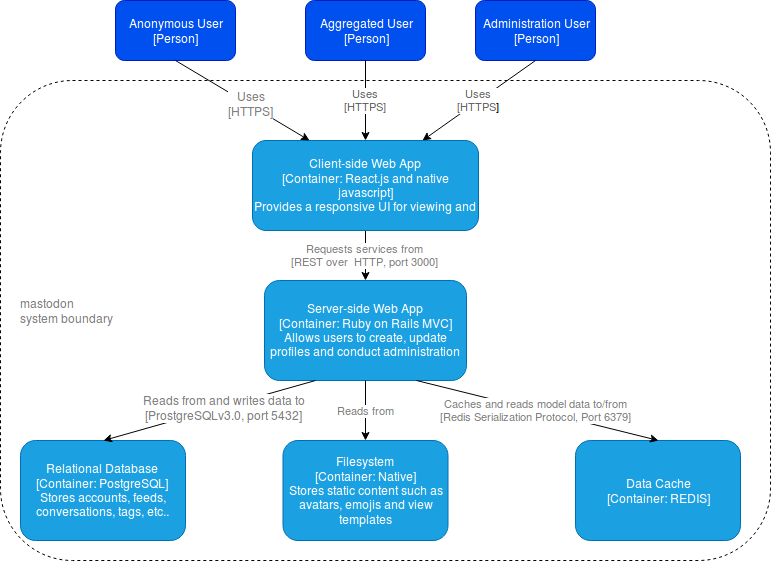
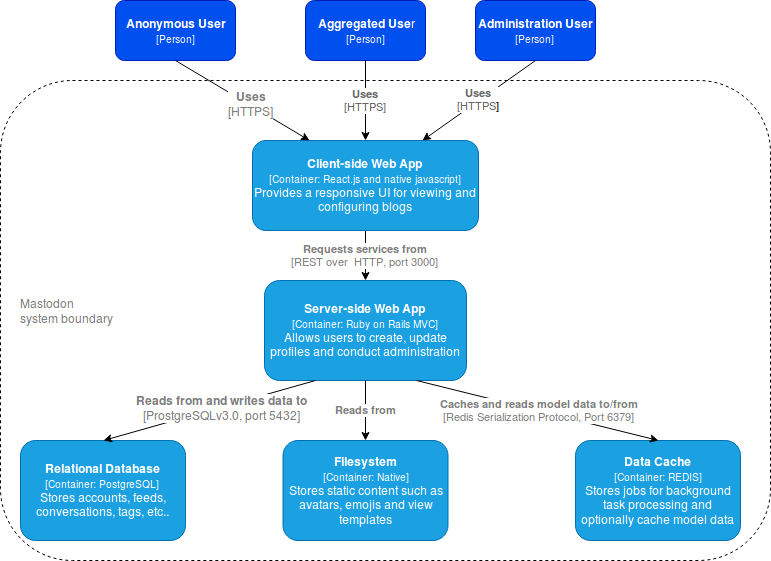
Update README.md with more details on arch

diff --git a/README.md b/README.md
@@ -2,7 +2,7 @@
 
 ## Project Description
 
-Mastodon is a decentralized social media platform which supports self-hosted and independent instances through federation. Federation is achieved through the AcitivityPub protocol which using a mailbox system for sending and receiving messages across different servers supporting the protocol.
+Mastodon is a decentralized social media platform which supports self-hosted and independent instances through federation. Federation is achieved through the [AcitivityPub protocol](https://www.w3.org/TR/activitypub/) which using a mailbox system for sending and receiving messages across different servers supporting the protocol.
 
 ## Installation
 
@@ -40,6 +40,8 @@ only list a few notable libraries that are used throughout the project.
 - __websocket__: library providing an API to support bidirectional communication between `javascript` and `ruby` backend through
 the familiar socket function calls such as `open()`, `send()` and `read()`. In mastodon, WebSockets are mainly used to implement
 the streaming functionality that provides live updates about toots. 
+- __doorkeeper__: OAuth2 provider
+- __paper__: paperclip: provides file upload and attachment functionaility
 - __webpacker__: provides a means to manage dependencies between javascript modules within Rails applications
 - __sidekiq__: a job scheduler library for managing jobs in Ruby. During the lifecycle of the application, Mastodon will create
 `Sidekiq::Worker`s to handle background tasks such as updating feeds and displaying notifications
@@ -62,20 +64,24 @@ DOM updates are primarily routed to the React.js library rather interacting with
 
 #### Javascript Libraries
 
-- __redux__: a library providing a maintainable approach to stateful user interface design. Redux closely follows the `Flux` design pattern which helps developers reason about complex state mutations as a result of various factors within non-trivial applications.
+- __Redux__: a library providing a maintainable approach to stateful user interface design. Redux closely follows the `Flux` design pattern which helps developers reason about complex state mutations as a result of various factors within non-trivial applications.
 A `Flux` application consists of four components: (1) actions (2) dispatcher (3) stores and (4) controller-views. 
-  - __actions__: an object describing units of updates which should be applied to a store
+  - __actions__: an object describing units of updates which should be applied to a state tree
   - __dispatcher__: distributes created actions to stores which register callback functions with the dispatcher
   - __store__: represents the state of a component. The state is not manipulated directly but rather through actions. This inversion of control nicely
   enforces SoC (Separation of Concerns) and promotes more maintainable code
   - __controller-view__: the stores pass the newly computed state objects to their respective or interested views so that their own state can
   be updated accordingly.
   
-  redux deviates slightly from Flux in a few ways. Firstly, there is only one store which maintains a single object describing the state of the entire application. There are no dispatchers to update the store but rather __reducers__ which are pure functions that compute state changes based
-on the actions. Overall redux fits nicely with user interface frameworks such as React which maintain a stateful view of the Document Object Model (DOM).
-- __react__: a popular user interface library which simplifies state management of view related concepts. The power of React starts with the virtual DOM.
-Applications which use react will indirectly manipulate the DOM by first applying changes to an in-memory copy. This modified copy is compared with the original
-DOM and changes are reconsolidated by only updating nodes within the DOM that was changed. An interesting thing to note is that, react and redux work well together because they share the same philosophy of stateful programming. In fact redux provides native support for allowing react components to update their own state by querying the __store__.
+  Redux deviates slightly from Flux in a few ways. Firstly, there is only one store which maintains a single object describing the state of the entire application. There are no dispatchers to update the store but rather __reducers__ which are pure functions that compute state changes based on the actions. 
+  Overall Redux fits nicely with user interface frameworks such as React which maintain a stateful view of the Document Object Model (DOM). 
+  ![redux](assets/img/redux.png)
+  
+- __React__: a popular user interface library which simplifies state management of view related concepts. The power of React starts with the virtual DOM.
+Applications which use React will indirectly manipulate the DOM by first applying changes to an in-memory copy. This modified copy is compared with the original
+DOM and changes are reconsolidated by only updating nodes within the DOM that was changed. An interesting thing to note is that, React and Redux work well together; React generates
+state updates in response to actions which can then be used by React to update 
+In fact Redux provides native support for allowing React components to update their own state by querying the __store__.
 
 ### Thoughts on Programming Languages
 
@@ -86,14 +92,14 @@ language frontend applications.
 If I were to implement an application in a similar vein to Mastodon, I would not deviate too much from their choices. My changes would mainly
 be driven by biases due to familiarity. Therefore, if given the choice I would rather implement the backend using python. My experience with python
 has led me to prefer its syntax and how object-oriented concepts are implemented. However, there are some considerations I would make be committing to this idea. First, there would need to be an understanding of implications on performance (e.g. will CPython be adequate or will another implementation be needed?).
-Second, how will mastodon python backend scale as more local users create accounts and more federated mastodon server instances are created? Lastly, we have to consider if the available web frameworks for python are sufficient enough for mastodon. I believe Django is equivalent to Rails in terms of supporting the 
-Model View Controller paradigm. It also has the option of Django webpacker for managing frontend files.
+Second, how will Mastodon in python scale as more local users create accounts and more federated mastodon server instances are created? Lastly, we have to consider if the available web frameworks for python are sufficient enough for Mastodon. I believe Django is equivalent to Rails in terms of supporting the 
+Model View Controller (MVC) paradigm. It also has the option of Django webpacker for managing frontend files.
 
 ## Build System
 
 Since Mastodon is a web application built on languages which are compiled JIT (Just in Time), there is no concept of building the application. Instead, mastodon requires several services or processes to run before it can serve clients. As a user who is not interested in underlying details, you can use `foreman` gem to spawn the needed process dependencies. In the project, two files `Procfile` and `Procfile.dev` indicate
 which processes need to run and their corresponding arguments. The `.dev` denotes launch configuration for development environments. From a quick glance
-at the production `Procfile`, mastodon spawns a [puma](https://github.com/puma/puma) web server that houses the rails application. Additionally
+at the production `Procfile`, mastodon spawns a `puma`) web server that houses the rails application. Additionally
 a background process, `sidekiq` is started to handle asynchronous job requests from the main Rails app.
 
 ## Testing
@@ -103,7 +109,7 @@ Mastodon project utilizes two automated testing methods for coverage of both Rub
 #### Ruby testing
 Ruby testing is automated through
 [rspec](rspec.info),  a testing framework applications developed in the Ruby programming language. The philosophy of
-this framework is __Test Driver Development__ or (__TDD__). Canonical TDD emphasizes that tests be developed in parallel
+this framework is __Test Driven Development__ or (__TDD__). Canonical TDD emphasizes that tests be developed in parallel
 with implementations. However, for many developers, this is a challenge because the additional overhead of maintaining both
 application logic and testing logic can be burdensome. With TDD, the idea is to develop tests beforehand and let
 __failing__ tests drive implementation. Despite this awkward indirection, following this paradigm can better guarantee
@@ -128,7 +134,7 @@ using `jest`.
 
 ![](assets/img/js_coverage_ex.png)
 
-Although not as convenient as `rspec`, html generated output, it does give a good idea what parts of the code are touched the
+Although not as convenient as the html output generated by `rspec` it does give a good idea what parts of the code are touched the
 most by the test cases with a quick glance.
 
 #### Continuous Integration
@@ -136,14 +142,19 @@ Mastodon uses [circleci](https://circleci.com/) as their continuous integration 
 
 ## Architecture
 
-Mastodon's architecture is similar to that of a conventional web application; it features a responsive frontend using Facebook's `React.js` library and a back-end component which handles retrieving and updating models along with providing the correct views to the user depending on the RESTFUL endpoint. To best describe the architecture, this report will present the application in three levels of abstration using the C4 design model. In the C4 model, each abstraction is tied to a specific context which governs the appropiate information that should be presented. Currently the contexts or abstraction levels are __system__, __container__ and __component__.
+Mastodon's architecture is similar to that of a conventional web application; it features a responsive frontend using Facebook's `React.js` library and a back-end component which handles retrieving and updating models along with providing the correct views to the user depending on the RESTFUL endpoint. To best describe the architecture, this report will present the application in three levels of abstration using the [C4 design model](https://c4model.com/). In the C4 model, each abstraction is tied to a specific context which governs the appropiate information that should be presented. Currently the contexts or abstraction levels are __system__, __container__ and __component__.
 
 The figure below is the __system context__ which places the software in relation to its enviornment. 
 
+![system context](assets/img/mastodon_sys_context.png)
 
-The figure below shows the high level view of the major technologies that support mastodon.
+The figure below is the __container context__ showing the high level view of the major technologies that support mastodon.
+
 ![](assets/img/mastodon_containers.png)
 
+The figure below is the __component context__ providng a more finer grained view into the system.
+
+![](assets/img/mastodon_component_context.png)
 
 ## Issues
 
